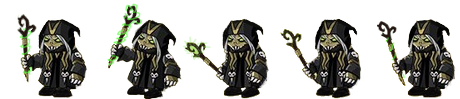
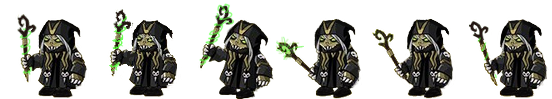
added 1 frame to simple attack for necromancer

diff --git a/src/gameApp/monsters/Necromancer.ts b/src/gameApp/monsters/Necromancer.ts
@@ -45,7 +45,7 @@ export class Necromancer extends Monster{
 	private static readonly imageFrames = 6;
 
 	private static readonly attackImage: HTMLImageElement = new Image();  //атака монстра
-	private static readonly attackImageFrames = 5;
+	private static readonly attackImageFrames = 6;
 
 
 	static readonly chargeImage: HTMLImageElement = new Image();
@@ -212,7 +212,7 @@ export class Necromancer extends Monster{
 		}
 		else{ //энергетический шар
 			if(!this._isAttack){
-				this._attackLeftTimeMs = 350;
+				this._attackLeftTimeMs = 450;
 				this.attackAnimation.restart();
 				this._isAttack = true; //атакует
 			}
